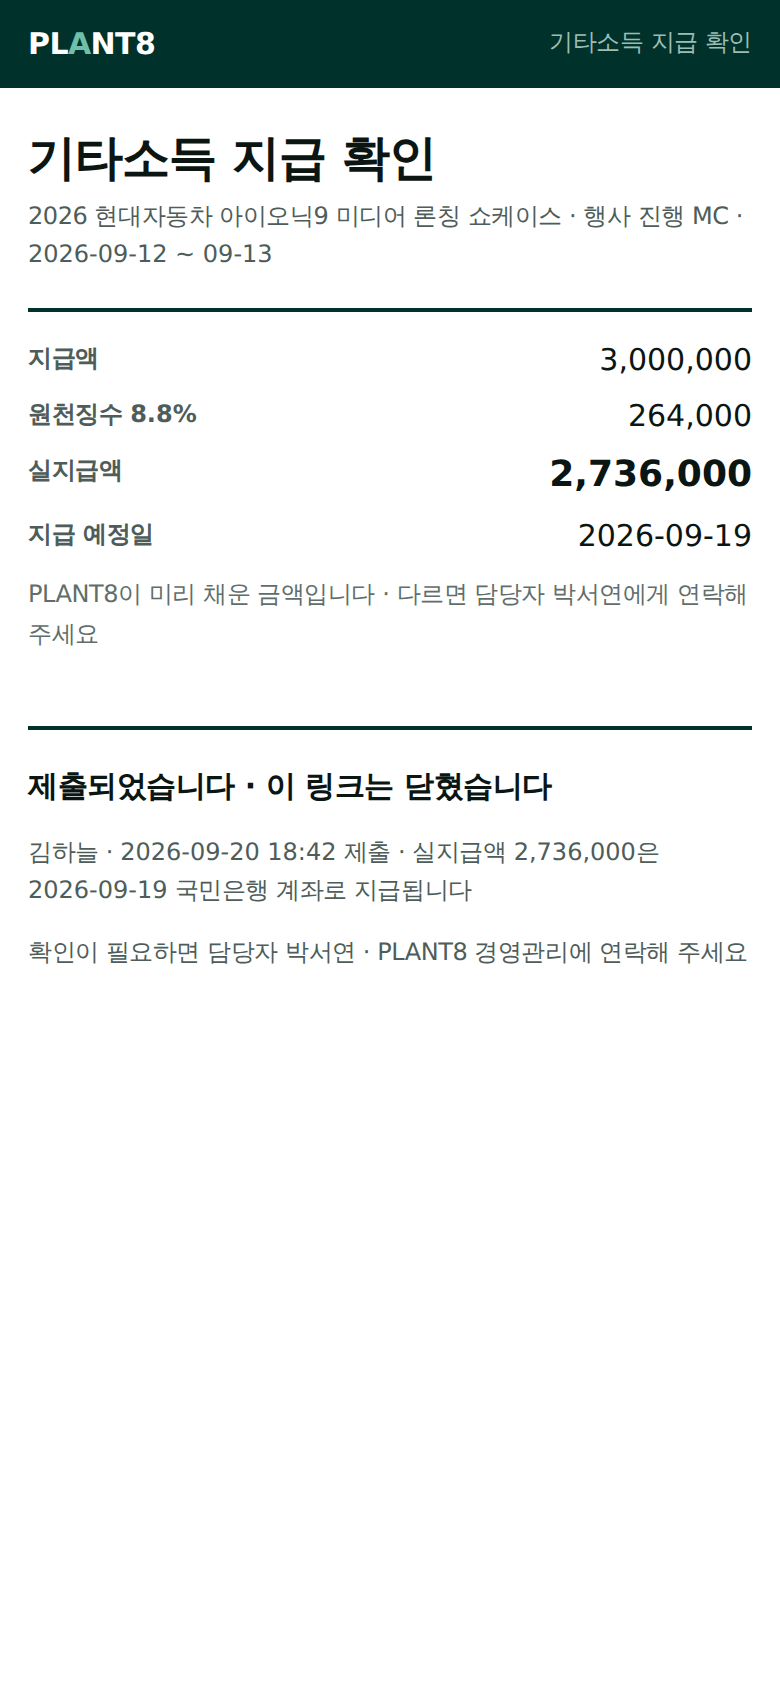
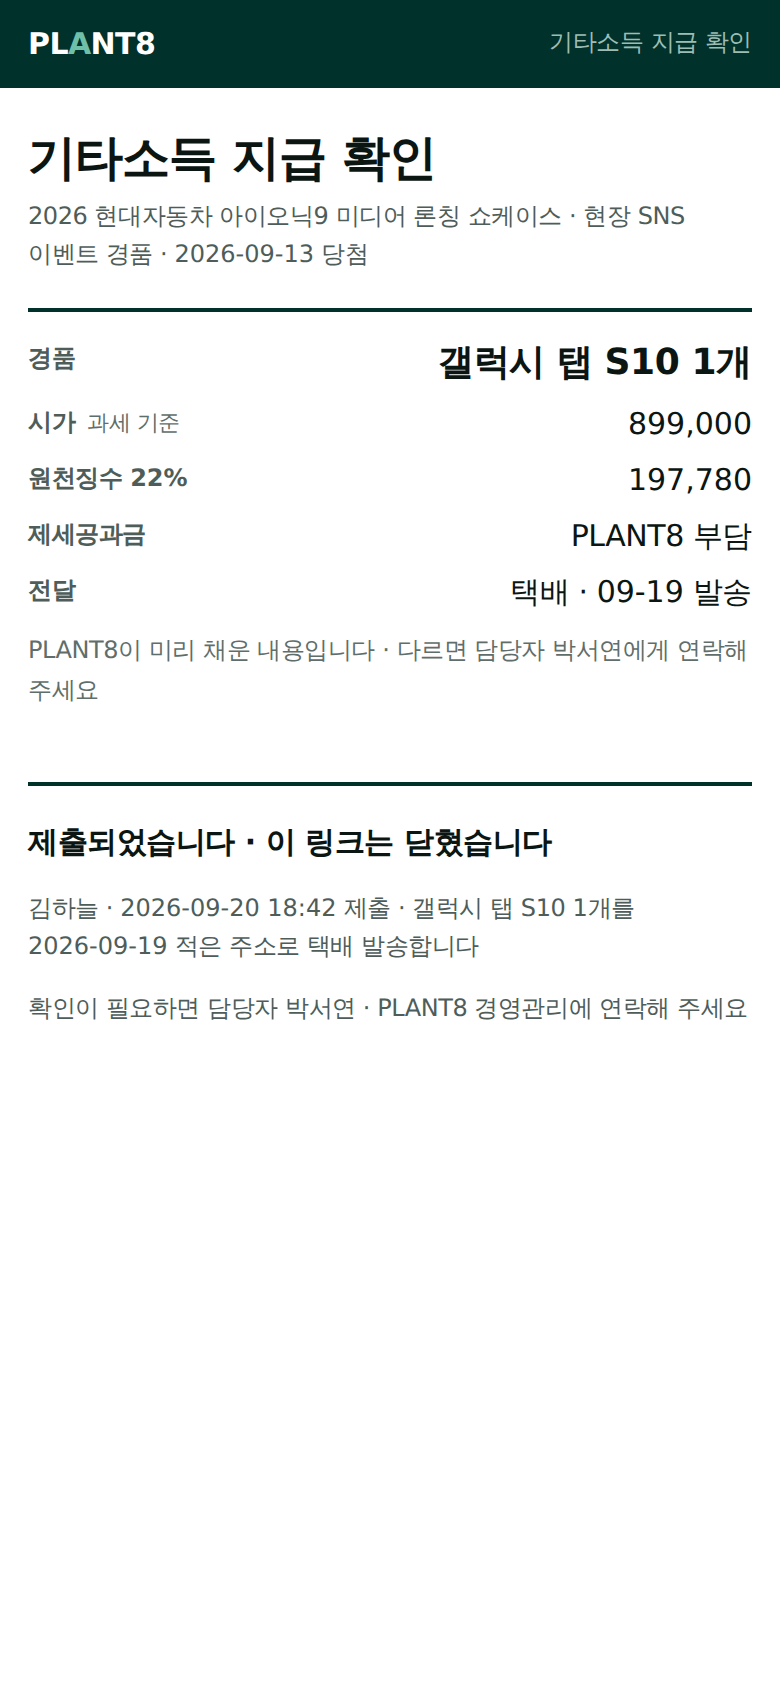
docs: 외부 수령자 화면을 경품용으로 — 지급액·계좌 삭제, 경품 품목·시가·원천징수·전달
사용자 결정(2026-09-18): 기타소득 확인증은 거의 경품(현물)이라 현금이
나가지 않는다. 지급 블록을 경품 · 시가(과세 기준) · 원천징수 22% ·
제세공과금 부담 · 전달(택배·발송일)로, 입력에서 계좌 제거(주소는 경품
받을 곳). 세율·부담 주체는 세무 확인 전 임시. 확인 전.

Claude-Session: https://claude.ai/code/session_01MwoSZSUG1tWADvG16RK3Ss

diff --git a/docs/design/system/external-cert.html b/docs/design/system/external-cert.html
@@ -12,6 +12,7 @@
    #error        주민등록번호 형식 오류 · ~해 주세요체
    #done         제출됨 · 링크 닫힘 (PDF 링크 없음 = v1)
    #expired      이미 제출된 링크로 재진입
+   2026-09-18 사용자: 기타소득은 거의 경품(현물)이라 지급액·계좌를 빼고 경품 품목을 보인다(제세공과금 부담 주체·22%는 임시).
    이 화면만 본문 --fs-md · 입력 48px · 한 열. 나머지 규칙(직각·틴트·색)은 그대로. 컴포넌트는 tokens.css 변수만 참조한다. 앱 코드가 아니다. */
 *{box-sizing:border-box;margin:0;padding:0}
 html{font-size:var(--fs-md)}
@@ -36,17 +37,18 @@ h1{font-size:var(--fs-xl);font-weight:var(--fw-bold);letter-spacing:var(--ls-hea
 .pay dt{font-size:var(--fs-sm);color:var(--muted);font-weight:var(--fw-medium);padding-top:2px}
 .pay dd{text-align:right}
 .pay dd.big{font-size:var(--fs-lg);font-weight:var(--fw-bold)}
+.pay .ro-in{font-size:var(--fs-xs);color:var(--faint);font-weight:var(--fw-regular);margin-left:2px}
 .pay .ro{font-size:var(--fs-sm);color:var(--faint);margin-top:var(--s-2)}
 
 .form{border-top:var(--line-w-strong) solid var(--line-strong);padding-top:var(--s-3)}
 .row{padding:var(--s-2) 0}
 .row label,.row .lbl{display:block;font-size:var(--fs-sm);font-weight:var(--fw-medium);color:var(--muted);margin-bottom:var(--s-1)}
+.lbl-sub{font-size:var(--fs-xs);color:var(--faint);font-weight:var(--fw-regular);margin-left:4px}
 .inp{height:48px;border:var(--line-w) solid var(--line-ui);background:var(--bg);padding:0 var(--s-3);width:100%;border-radius:var(--radius);font-size:var(--fs-md)}
 .inp.err{border-color:var(--danger)}
 .inp::placeholder{color:var(--faint)}
 .two{display:grid;grid-template-columns:1fr auto 1fr;gap:var(--s-2);align-items:center}
 .two .dash{color:var(--faint)}
-.acct{display:grid;grid-template-columns:120px 1fr;gap:var(--s-2)}
 .ferr{font-size:var(--fs-sm);color:var(--danger);margin-top:var(--s-1)}
 .sep{border-top:var(--line-w) solid var(--line);margin:var(--s-3) 0}
 
@@ -94,16 +96,17 @@ body[data-scene="error"] .sig svg{display:block}
 
 <main>
   <h1>기타소득 지급 확인</h1>
-  <p class="sub">2026 현대자동차 아이오닉9 미디어 론칭 쇼케이스 · 행사 진행 MC · <span class="num">2026-09-12 ~ 09-13</span></p>
+  <p class="sub">2026 현대자동차 아이오닉9 미디어 론칭 쇼케이스 · 현장 SNS 이벤트 경품 · <span class="num">2026-09-13</span> 당첨</p>
 
-  <section class="pay" aria-label="지급 내용">
+  <section class="pay" aria-label="경품 내용">
     <dl>
-      <dt>지급액</dt><dd class="num">3,000,000</dd>
-      <dt>원천징수 <span class="num">8.8%</span></dt><dd class="num">264,000</dd>
-      <dt>실지급액</dt><dd class="num big">2,736,000</dd>
-      <dt>지급 예정일</dt><dd class="num">2026-09-19</dd>
+      <dt>경품</dt><dd class="big">갤럭시 탭 S10 <span class="num">1</span>개</dd>
+      <dt>시가 <span class="ro-in">과세 기준</span></dt><dd class="num">899,000</dd>
+      <dt>원천징수 <span class="num">22%</span></dt><dd class="num">197,780</dd>
+      <dt>제세공과금</dt><dd>PLANT8 부담</dd>
+      <dt>전달</dt><dd>택배 · <span class="num">09-19</span> 발송</dd>
     </dl>
-    <p class="ro">PLANT8이 미리 채운 금액입니다 · 다르면 담당자 박서연에게 연락해 주세요</p>
+    <p class="ro">PLANT8이 미리 채운 내용입니다 · 다르면 담당자 박서연에게 연락해 주세요</p>
   </section>
 
   <form class="form" onsubmit="return false">
@@ -112,17 +115,14 @@ body[data-scene="error"] .sig svg{display:block}
       <div class="two"><input id="rrn1" class="inp num" inputmode="numeric" placeholder="930412" maxlength="6"><span class="dash">-</span><input id="rrn2" class="inp num" inputmode="numeric" type="password" placeholder="•••••••" maxlength="7"></div>
       <div class="ferr s-error">주민등록번호 형식이 아닙니다 · 앞 6자리, 뒤 7자리를 적어 주세요</div>
     </div>
-    <div class="row"><label for="addr">주소</label><input id="addr" class="inp" placeholder="도로명 주소"></div>
+    <div class="row"><label for="addr">주소 <span class="lbl-sub">경품 받을 곳</span></label><input id="addr" class="inp" placeholder="도로명 주소"></div>
     <div class="row"><label for="tel">연락처</label><input id="tel" class="inp num" inputmode="tel" placeholder="010-0000-0000"></div>
-    <div class="row"><label for="bank">계좌</label>
-      <div class="acct"><select id="bank" class="inp"><option>은행</option><option>국민</option><option>신한</option><option>우리</option><option>하나</option><option>농협</option><option>카카오뱅크</option><option>토스뱅크</option></select><input id="acct" class="inp num" inputmode="numeric" placeholder="계좌번호" aria-label="계좌번호"></div>
-    </div>
 
     <div class="sep"></div>
 
     <div class="consent">
       <input type="checkbox" id="agree">
-      <label for="agree">개인정보 수집·이용에 동의합니다<small>수집 항목 이름 · 주민등록번호 · 주소 · 연락처 · 계좌 — 기타소득 원천징수 신고와 지급에만 쓰고, 법정 보존 기간(5년) 뒤 파기합니다. 동의하지 않으면 지급이 진행되지 않습니다. <button type="button" class="b3 sm">전문 보기</button></small></label>
+      <label for="agree">개인정보 수집·이용에 동의합니다<small>수집 항목 이름 · 주민등록번호 · 주소 · 연락처 — 기타소득 원천징수 신고와 경품 전달에만 쓰고, 법정 보존 기간(5년) 뒤 파기합니다. 동의하지 않으면 지급이 진행되지 않습니다. <button type="button" class="b3 sm">전문 보기</button></small></label>
     </div>
 
     <div class="sep"></div>
@@ -139,7 +139,7 @@ body[data-scene="error"] .sig svg{display:block}
 
   <section class="state s-done" aria-live="polite">
     <p><b>제출되었습니다 · 이 링크는 닫혔습니다</b></p>
-    <p class="who">김하늘 · <span class="num">2026-09-20 18:42</span> 제출 · 실지급액 <span class="num">2,736,000</span>은 <span class="num">2026-09-19</span> 국민은행 계좌로 지급됩니다</p>
+    <p class="who">김하늘 · <span class="num">2026-09-20 18:42</span> 제출 · 갤럭시 탭 S10 <span class="num">1</span>개를 <span class="num">2026-09-19</span> 적은 주소로 택배 발송합니다</p>
     <p class="who">확인이 필요하면 담당자 박서연 · PLANT8 경영관리에 연락해 주세요</p>
   </section>
 
@@ -149,7 +149,7 @@ body[data-scene="error"] .sig svg{display:block}
   </section>
 <div class="submit">
   <button class="btn" disabled aria-describedby="why">확인증 제출</button>
-  <span class="blocked s-empty" id="why">이름 · 주민등록번호 · 주소 · 연락처 · 계좌 · 동의 · 서명을 채우면 제출할 수 있습니다</span>
+  <span class="blocked s-empty" id="why">이름 · 주민등록번호 · 주소 · 연락처 · 동의 · 서명을 채우면 제출할 수 있습니다</span>
   <span class="blocked s-sign">서명을 해 주세요</span>
   <span class="blocked s-error">주민등록번호를 고쳐 주세요 · 나머지는 채워졌습니다</span>
 </div>
@@ -160,9 +160,9 @@ body[data-scene="error"] .sig svg{display:block}
   var h=location.hash.slice(1);
   if(['empty','sign','error','done','expired'].includes(h))document.body.dataset.scene=h;
   if(h==='sign'||h==='error'){
-    var v={name:'김하늘',rrn1:'930412',rrn2:'2345678',addr:'서울특별시 마포구 월드컵북로 396, 누리꿈스퀘어 비즈니스타워 1203호',tel:'010-4821-7730',acct:'123456-01-234567'};
+    var v={name:'김하늘',rrn1:'930412',rrn2:'2345678',addr:'서울특별시 마포구 월드컵북로 396, 누리꿈스퀘어 비즈니스타워 1203호',tel:'010-4821-7730'};
     for(var k in v){var el=document.getElementById(k);if(el)el.value=v[k]}
-    document.getElementById('bank').selectedIndex=1;document.getElementById('agree').checked=true;
+    document.getElementById('agree').checked=true;
     if(h==='error'){var r=document.getElementById('rrn1');r.value='93041';r.classList.add('err');r.setAttribute('aria-invalid','true')}
   }
 })();
